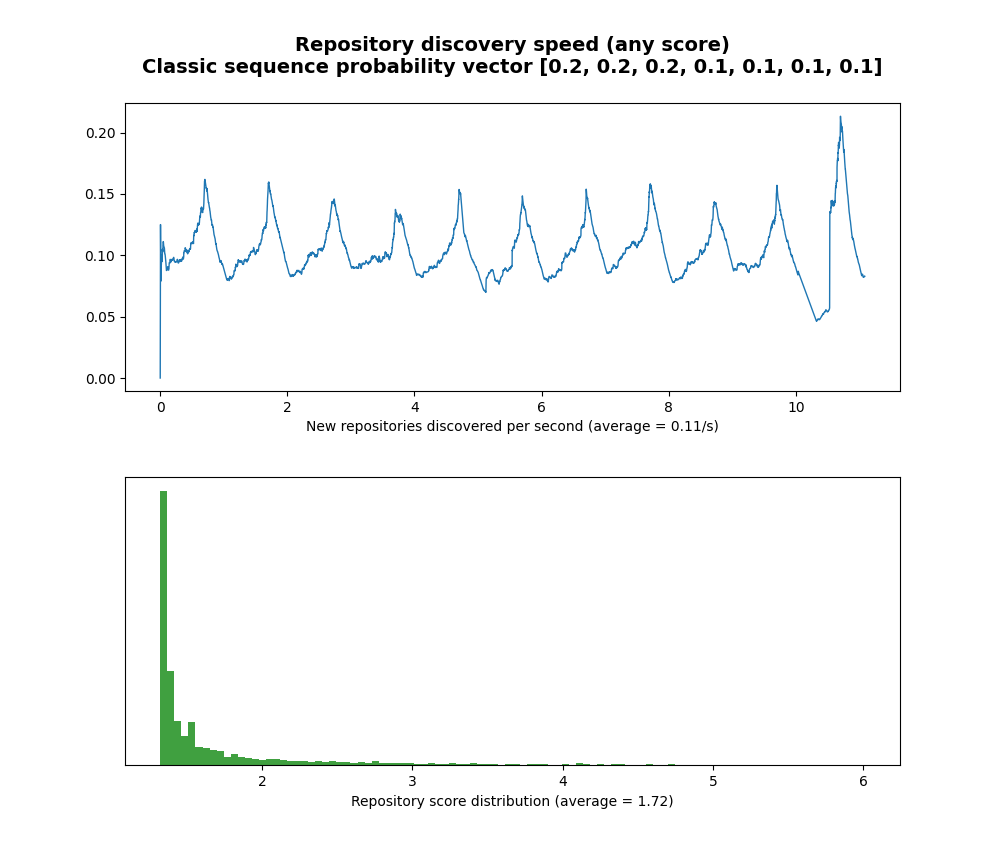
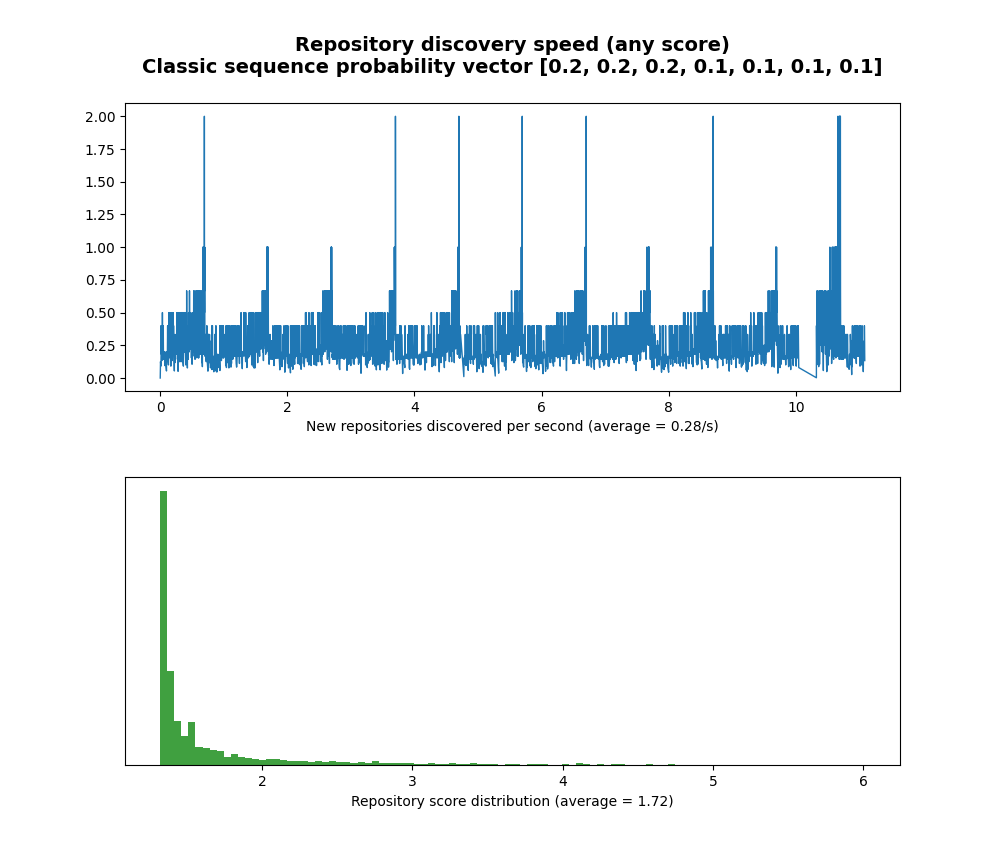
Modify how the new repository discovery speed is calculated. Updates of the diagrams in README.md file

diff --git a/tests/graphics.py b/tests/graphics.py
@@ -20,7 +20,7 @@ def repository_creation_speed(tag):
             x.append(calendar.timegm(event_log[1].timetuple()))
             repo_found.append(new_repo)
             try:
-                creation_speed.append((new_repo-max(0, new_repo - 100))/(calendar.timegm(event_log[1].timetuple())-x[max(0, new_repo-100)]))
+                creation_speed.append((new_repo-max(0, new_repo - 2))/(calendar.timegm(event_log[1].timetuple())-x[max(0, new_repo-2)]))
             except Exception as ex:
                 creation_speed.append(0)
                 print(ex)
@@ -29,7 +29,7 @@ def repository_creation_speed(tag):
 
     plt.figure(figsize=(10,60))
     plt.subplot(2,1,1)
-    plt.title(f"Repository discovery speed (any score)\n{tag}\n", fontdict = {'fontsize' : 14, 'weight' : 'bold'})
+    plt.title(f"Repository discovery speed (Any score)\n{tag}\n", fontdict = {'fontsize' : 14, 'weight' : 'bold'})
     plt.plot(timeline, creation_speed, linewidth=1.0)
     plt.xlabel(f"New repositories discovered per second (average = {'{:.2f}'.format(sum(creation_speed)/len(score))}/s)")
     plt.subplot(2,1,2)
@@ -40,5 +40,7 @@ def repository_creation_speed(tag):
     plt.show()
 
 #repository_creation_speed("Reference repositories")
+#repository_creation_speed("Classic sequence probability vector [0.2, 0.2, 0.2, 0.1, 0.1, 0.1, 0.1]")
 #repository_creation_speed("Classic sequence probability vector [0.1, 0.1, 0.1, 0.2, 0.2, 0.2, 0.1]")
-repository_creation_speed("Stack size 1000 and probability vector [0.1, 0.1, 0.1, 0.2, 0.2, 0.2, 0.1]")
+#repository_creation_speed("Stack size 1000 and probability vector [0.1, 0.1, 0.1, 0.2, 0.2, 0.2, 0.1]")
+repository_creation_speed("Stack size 1000 and probability vector [0.19,0.1,0.1,0.2,0.2,0.2,0.01]")

diff --git a/tests/basic_test.py b/tests/basic_test.py
@@ -23,10 +23,10 @@ def test_case_1():
     print(rows)
 
 def test_case_2():
-    probabilities = [0.1,0.1,0.1,0.2,0.2,0.2,0.1]
-    git_repo = GitRepository("barakmich/etcd_store")
+    probabilities = [0.19,0.1,0.1,0.2,0.2,0.2,0.01]
+    git_repo = GitRepository("snyk/snyk")
     for number in range(100000):
-        git_repo = move_to_next_repository(git_repo, probabilities, f"Stack size 1000 and probability vector {str(probabilities)}")
+        git_repo = move_to_next_repository(git_repo, probabilities, f"Stack size 100 and probability vector {str(probabilities)}")
 
 #reset_database()
 #test_case_1()

diff --git a/scraper/rl_agent.py b/scraper/rl_agent.py
@@ -11,7 +11,7 @@ MOVE_FORKS = 4
 MOVE_COMMITS = 5
 MOVE_STACK = 6
 
-REPOSITORY_STACK_SIZE = 1000
+REPOSITORY_STACK_SIZE = 100
 repository_stack=[]
 np.random.seed(int(time.time()))
 #np.random.seed(0)

diff --git a/README.md b/README.md
@@ -77,7 +77,7 @@ GITHUB_API_KEY="..."
 ### Pure random trajectories 
 In this case the algorithm moves from repositories to repositories using fixed and predetermined probabilities to decide between each of the seven possible actions.
 
-In average GitScrap discovers 0.11 repositories each second which is not enough to cover the current growth rate of GitHub. An hourly pattern can be observed on the discovery speed which corresponds to GitHub API speed limitation which is based on an hourly cycle.
+In average GitScrap discovers 0.28 repositories each second which is not enough to cover the current growth rate of GitHub. An hourly pattern can be observed on the discovery speed. It corresponds to an improvable method to account for GitHub API speed limitation. 
 
 As a reference, the average score of a pool of 30 Open Source repositories with successful commercial extensions is 4.16 (as compared with 1.72 for a random selection of repositories). When randomly selected 2.3% (est. 650000 public repositories) of the repositories have a score greater than 4. Even if the reinforced learning algorithm would only pick repositories with a score greater than 4 it would take him 6 months to inventory 90% of them.
 
